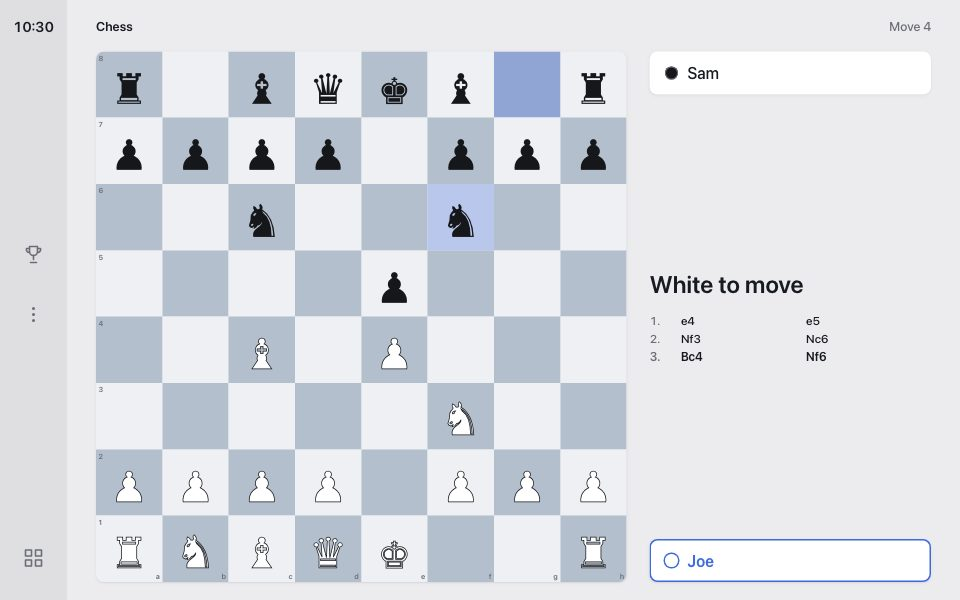
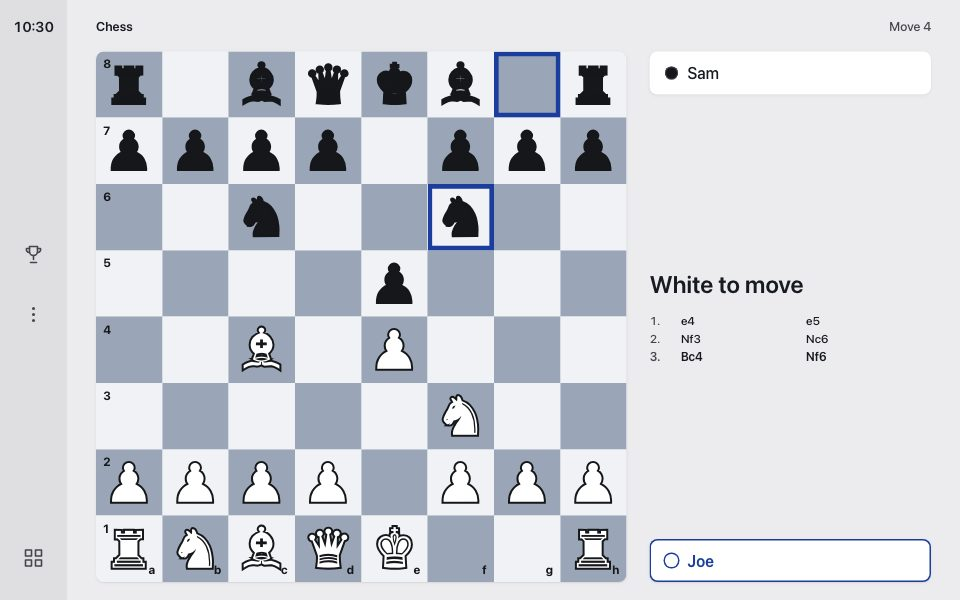
feat: AAA contrast in every game, a chess board readable from the back seat, and a flat angular Cyber theme
Every text color now meets WCAG AAA (7:1) on its surface in Classic light, Classic dark, and Cyber,
checked by an axe test over every gallery example. Chess pieces fill their squares with a contrasting
edge, coordinates are larger and bolder, and the last move is a ring. Cyber drops the steel
gradients, light bar, and glow for flat chamfered panels. Screenshots and the chess GIF are
re-recorded, and a 28th example keeps the gallery even.

Changed region(s): [[0.0938, 0.06, 0.6562, 0.99], [0.6875, 0.93, 0.9688, 0.99], [0.9375, 0.03, 0.9688, 0.06]]

diff --git a/board.css b/board.css
@@ -5,10 +5,14 @@
 	--dock: #dfdfe2;
 	--shadow: 0 1px 2px #0000000f, 0 2px 8px #0000000a;
 	--text: #171a20;
-	--muted: #6b6e75;
-	--accent: #3e6ae1;
-	--correct: #1fa463;
-	--danger: #e5484d;
+	--muted: #44464b;
+	--accent: #1a3d9e;
+	--correct: #0a5530;
+	--danger: #8f1a1d;
+	/* Text on accent, correct, and danger fills. Every text color meets WCAG AAA (7:1) on its surface. */
+	--on-accent: #fff;
+	--on-correct: #fff;
+	--on-danger: #fff;
 	--radius: 16px;
 	--chamfer: 0px;
 	--mono: ui-monospace, "SF Mono", Menlo, monospace;
@@ -22,8 +26,13 @@
 		--dock: #18181a;
 		--shadow: none;
 		--text: #f2f2f3;
-		--muted: #8d9097;
-		--accent: #5b84f0;
+		--muted: #a8abb0;
+		--accent: #8ca9f5;
+		--correct: #5bbd8d;
+		--danger: #ef9194;
+		--on-accent: #0d0d0e;
+		--on-correct: #0d0d0e;
+		--on-danger: #0d0d0e;
 	}
 }
 
@@ -122,7 +131,7 @@ html, body {
 	transition: background 0.2s, color 0.2s, transform 0.1s;
 }
 .dock-item:hover { color: var(--text); }
-.dock-item.is-active { background: var(--accent); color: #fff; }
+.dock-item.is-active { background: var(--accent); color: var(--on-accent); }
 
 /* ⋮ menu (popover) */
 .dock-more .icon path { fill: currentColor; stroke: none; }
@@ -217,12 +226,13 @@ a.card { transition: transform 0.1s; }
 	padding: 3vh 2vw;
 	font-size: clamp(1.4rem, 4vh, 3rem);
 	text-align: start;
-	transition: opacity 0.3s, background 0.3s;
+	transition: color 0.3s, background 0.3s;
 }
 .choice .muted { min-width: 1.2em; font-size: 0.75em; font-weight: 600; }
-.choice.is-correct { background: var(--correct); color: #fff; }
-.choice.is-correct .muted { color: inherit; opacity: 0.8; }
-.choice.is-dim { opacity: 0.5; }
+.choice.is-correct { background: var(--correct); color: var(--on-correct); }
+.choice.is-correct .muted { color: inherit; }
+/* Wrong answers recede by color, not opacity, so they stay readable. */
+.choice.is-dim { color: var(--muted); box-shadow: none; background: transparent; outline: 1px solid color-mix(in srgb, var(--muted) 40%, transparent); outline-offset: -1px; }
 .clue .choice { justify-content: center; }
 
 .verdict {
@@ -334,7 +344,7 @@ a.card { transition: transform 0.1s; }
 	font-variant-numeric: tabular-nums;
 }
 .grid-cell.is-used { background: transparent; box-shadow: inset 0 0 0 2px var(--card); }
-.grid-cell.is-current { background: var(--accent); color: #fff; }
+.grid-cell.is-current { background: var(--accent); color: var(--on-accent); }
 
 /* Effects */
 @property --left {
@@ -383,50 +393,44 @@ a.card { transition: transform 0.1s; }
 @keyframes fall { to { transform: translate3d(var(--drift), 112vh, 0) rotate(var(--spin)); } }
 
 /*
- * Cyber theme: brushed stainless, sharp facets, a white light bar, red for alerts.
+ * Cyber theme: the angular in-car software look. Near-black flat panels, chamfered corners,
+ * hairline edges, wide uppercase labels in a technical face, white as the accent.
  * theme=cyber or the ⋮ menu.
  */
 :root[data-theme="cyber"] {
 	--bg: #0a0b0c;
-	--card: #1c1e21;
-	--dock: #111214;
+	--card: #17181b;
+	--dock: #0f1012;
+	--edge: #ffffff24;
 	--shadow: none;
 	--text: #eef0f2;
-	--muted: #8b9098;
+	--muted: #a5a8af;
 	--accent: #f2f4f6;
 	--correct: #4ade80;
-	--danger: #ff453a;
+	--danger: #ff847d;
+	--on-accent: #0a0b0c;
+	--on-correct: #04140a;
+	--on-danger: #0a0b0c;
 	--radius: 0px;
 	--chamfer: 14px;
-	--steel: linear-gradient(160deg, #34383d 0%, #1e2124 38%, #26292d 62%, #181a1d 100%);
 	color-scheme: dark;
 }
 
 [data-theme="cyber"] body { background: var(--bg); }
 
-/* The light bar: one thin white line across the top. */
-[data-theme="cyber"] .board::before {
-	content: "";
-	position: absolute;
-	top: 0;
-	inset-inline: 6%;
-	height: 2px;
-	background: #fff;
-	box-shadow: 0 0 14px #ffffffb0, 0 0 40px #ffffff40;
-	pointer-events: none;
-}
-
+/* Chamfered panels: flat fills, a shade lighter than the background, so the cut corners read clearly. */
 [data-theme="cyber"] .card,
 [data-theme="cyber"] .chip,
 [data-theme="cyber"] .dock-item {
 	border-radius: 0;
 	clip-path: polygon(var(--chamfer) 0, 100% 0, 100% calc(100% - var(--chamfer)), calc(100% - var(--chamfer)) 100%, 0 100%, 0 var(--chamfer));
 }
-[data-theme="cyber"] .card { background: var(--steel); box-shadow: inset 0 1px 0 #ffffff1f, inset 0 0 0 1px #ffffff10; }
-[data-theme="cyber"] .chip { --chamfer: 8px; background: var(--steel); }
+[data-theme="cyber"] .card,
+[data-theme="cyber"] .chip { background: var(--card); box-shadow: none; }
+[data-theme="cyber"] .chip { --chamfer: 8px; }
 [data-theme="cyber"] .dock-item { --chamfer: 10px; }
-[data-theme="cyber"] #dock { border-inline-end: 1px solid #ffffff12; }
-[data-theme="cyber"] .dock-menu { clip-path: none; border: 1px solid #ffffff1f; }
+[data-theme="cyber"] #dock { border-inline-end: 1px solid var(--edge); }
+[data-theme="cyber"] .dock-menu { clip-path: none; border: 1px solid var(--edge); }
 
 [data-theme="cyber"] .bar,
 [data-theme="cyber"] .grid-cat,
@@ -443,12 +447,21 @@ a.card { transition: transform 0.1s; }
 [data-theme="cyber"] .chip,
 [data-theme="cyber"] .fx-timer { font-family: var(--mono); }
 
+/* States repeat their fill here, since the panel background above is more specific. */
 [data-theme="cyber"] .dock-item.is-active,
-[data-theme="cyber"] .grid-cell.is-current { background: var(--accent); color: #0a0b0c; }
-[data-theme="cyber"] .choice.is-correct { background: var(--correct); color: #04140a; }
-[data-theme="cyber"] .grid-cell.is-used { background: transparent; box-shadow: inset 0 0 0 1px #ffffff14; }
-[data-theme="cyber"] .score-row.is-leader { box-shadow: inset 0 0 0 2px var(--accent); }
-[data-theme="cyber"] .verdict { text-shadow: 0 0 18px #ffffff55; }
+[data-theme="cyber"] .grid-cell.is-current { background: var(--accent); }
+[data-theme="cyber"] .choice.is-correct { background: var(--correct); }
+[data-theme="cyber"] .choice.is-dim { background: var(--card); outline: 0; }
+[data-theme="cyber"] .grid-cell.is-used { background: var(--dock); }
+/* Highlights: an accent edge drawn as a background layer, so it follows the chamfer. */
+[data-theme="cyber"] .score-row.is-leader,
+[data-theme="cyber"] .chip.is-up,
+[data-theme="cyber"] .chess-player.is-turn,
+[data-theme="cyber"] .adv-character.is-up {
+	background: linear-gradient(var(--card), var(--card)) padding-box, var(--accent) border-box;
+	border: 2px solid transparent;
+	box-shadow: none;
+}
 [data-theme="cyber"] .fx-timer { background: radial-gradient(closest-side, var(--bg) 84%, transparent 85%), conic-gradient(var(--accent) var(--left), #2a2d31 0); }
 
 /* Confirmation dialog */
@@ -477,7 +490,7 @@ a.card { transition: transform 0.1s; }
 	font-weight: 600;
 	cursor: pointer;
 }
-.button.is-danger { background: var(--danger); color: #fff; }
+.button.is-danger { background: var(--danger); color: var(--on-danger); }
 [data-theme="cyber"] .confirm,
 [data-theme="cyber"] .button {
 	border-radius: 0;
@@ -488,7 +501,7 @@ a.card { transition: transform 0.1s; }
 /* Final-screen credit: small and quiet */
 .credit {
 	align-self: center;
-	color: color-mix(in srgb, var(--muted) 75%, var(--text));
+	color: var(--muted);
 	font-size: clamp(0.75rem, 1.6vh, 1rem);
 }
 .credit:hover { color: var(--text); }

diff --git a/plugins/voiceboard-chess/chess.css b/plugins/voiceboard-chess/chess.css
@@ -1,7 +1,14 @@
 /* Chess board. Orientation never mirrors in right-to-left languages. */
+/* Built to read from the back seat: pieces fill their squares, black pieces get a light edge on dark
+   boards, and coordinates keep AAA contrast on both square colors. */
 .chess-board {
-	--sq-light: #eef0f3;
-	--sq-dark: #b4bfcd;
+	--sq-light: #f0f2f5;
+	--sq-dark: #9aa6b7;
+	--coord: #15171a;
+	--w-fill: #fff;
+	--w-edge: #15171a;
+	--b-fill: #15171a;
+	--b-edge: #15171a;
 	direction: ltr;
 	display: grid;
 	grid-template-columns: repeat(8, 1fr);
@@ -16,33 +23,40 @@
 	box-shadow: var(--shadow);
 }
 @media (prefers-color-scheme: dark) {
-	:root:not([data-theme="cyber"]) .chess-board { --sq-light: #4a4e57; --sq-dark: #2d3036; }
+	:root:not([data-theme="cyber"]) .chess-board { --sq-light: #4a4e57; --sq-dark: #25272c; --coord: #f2f2f3; --w-edge: #0d0d0e; --b-fill: #0d0d0e; --b-edge: #e6e8eb; }
 }
-[data-theme="cyber"] .chess-board { --sq-light: #3a3e44; --sq-dark: #1b1d20; box-shadow: inset 0 0 0 1px #ffffff14; border-radius: 0; }
+[data-theme="cyber"] .chess-board { --sq-light: #44474d; --sq-dark: #1a1b1e; --coord: #eef0f2; --w-fill: #f2f4f6; --w-edge: #0a0b0c; --b-fill: #0a0b0c; --b-edge: #e6e8eb; box-shadow: 0 0 0 1px var(--edge); border-radius: 0; }
 
-.sq { position: relative; display: grid; place-items: center; }
+.sq { position: relative; display: grid; place-items: center; container-type: size; }
 .sq.light { background: var(--sq-light); }
 .sq.dark { background: var(--sq-dark); }
-.sq.last::after { content: ""; position: absolute; inset: 0; background: color-mix(in srgb, var(--accent) 30%, transparent); }
+/* Last move: a thick ring rather than a tint, so the coordinates keep their contrast. */
+.sq.last::after { content: ""; position: absolute; inset: 0; box-shadow: inset 0 0 0 7cqmin var(--accent); }
 .sq.check { background: radial-gradient(circle, var(--danger) 0 45%, transparent 75%), var(--sq-dark); }
 
-.piece { position: relative; z-index: 1; font-size: min(9vh, 5.4vw); line-height: 1; }
-.piece.w { color: #fff; -webkit-text-stroke: 1.5px #1a1c20; }
-.piece.b { color: #15171a; }
-[data-theme="cyber"] .piece.w { color: #f2f4f6; -webkit-text-stroke: 0; text-shadow: 0 0 10px #ffffff66; }
-[data-theme="cyber"] .piece.b { color: #0a0b0c; -webkit-text-stroke: 1px #8b9098; }
+/* The stroke is painted under the fill, so a thick edge never eats into the piece. */
+.piece {
+	position: relative;
+	z-index: 1;
+	font-family: "DejaVu Sans", "Noto Sans Symbols 2", "Segoe UI Symbol", "Apple Symbols", sans-serif;
+	font-size: 80cqmin;
+	line-height: 1;
+	paint-order: stroke fill;
+	-webkit-text-stroke: 6cqmin var(--edge-color);
+}
+.piece.w { color: var(--w-fill); --edge-color: var(--w-edge); }
+.piece.b { color: var(--b-fill); --edge-color: var(--b-edge); -webkit-text-stroke-width: 4cqmin; }
 
-.coord { position: absolute; z-index: 1; font-size: clamp(0.6rem, 1.4vh, 0.9rem); font-weight: 600; color: var(--muted); }
-.coord.rank { top: 0.3em; left: 0.35em; }
-.coord.file { bottom: 0.2em; right: 0.35em; }
+.coord { position: absolute; z-index: 1; font-size: max(0.85rem, 18cqmin); font-weight: 700; line-height: 1; color: var(--coord); }
+.coord.rank { top: 10cqmin; left: 11cqmin; }
+.coord.file { bottom: 9cqmin; right: 11cqmin; }
 
 .chess-status { margin: 0; font-size: clamp(1.4rem, 4.2vh, 3rem); font-weight: 600; }
 .chess-change { margin: 0; color: var(--accent); font-size: clamp(1rem, 2.6vh, 1.6rem); font-weight: 600; }
 .chess-captured { margin-inline-start: auto; font-size: 0.8em; letter-spacing: -0.1em; }
-.chess-captured.w { color: #fff; -webkit-text-stroke: 1px #1a1c20; }
-.chess-captured.b { color: #15171a; }
-[data-theme="cyber"] .chess-captured.w { color: #f2f4f6; -webkit-text-stroke: 0; }
-[data-theme="cyber"] .chess-captured.b { color: #0a0b0c; -webkit-text-stroke: 1px #8b9098; }
+.chess-captured { font-family: "DejaVu Sans", "Noto Sans Symbols 2", "Segoe UI Symbol", "Apple Symbols", sans-serif; paint-order: stroke fill; }
+.chess-captured.w { color: #fff; -webkit-text-stroke: 2px #15171a; }
+.chess-captured.b { color: #15171a; -webkit-text-stroke: 2px #e6e8eb; }
 .chess-illegal { margin: 0; color: var(--danger); font-size: clamp(1rem, 2.6vh, 1.6rem); font-weight: 600; }
 .chess-moves { margin: 0; padding: 0; list-style: none; display: grid; gap: 0.6vh; font-size: clamp(1rem, 2.4vh, 1.5rem); font-variant-numeric: tabular-nums; }
 .chess-moves li { display: grid; grid-template-columns: 2.6em 1fr 1fr; }
@@ -73,5 +87,4 @@
 	.chess-moves li:nth-last-child(n+4) { display: none; }
 	.chess-side { justify-content: flex-start; }
 	.chess-center { flex: none; }
-	.piece { font-size: min(8.5vw, 5.5vh); }
 }

diff --git a/plugins/voiceboard-sessions/journey.css b/plugins/voiceboard-sessions/journey.css
@@ -1,6 +1,6 @@
 /* Recap page: a phone-first reading layout. */
-:root { color-scheme: light dark; --text: #171a20; --muted: #5c5e62; --bg: #fff; --card: #f4f4f4; --accent: #3e6ae1; }
-@media (prefers-color-scheme: dark) { :root { --text: #f2f2f3; --muted: #a2a6ad; --bg: #0d0d0e; --card: #1f2023; --accent: #5b84f0; } }
+:root { color-scheme: light dark; --text: #171a20; --muted: #44464b; --bg: #fff; --card: #f4f4f4; --accent: #1a3d9e; --on-accent: #fff; --danger: #8f1a1d; }
+@media (prefers-color-scheme: dark) { :root { --text: #f2f2f3; --muted: #a8abb0; --bg: #0d0d0e; --card: #1f2023; --accent: #8ca9f5; --on-accent: #0d0d0e; --danger: #ef9194; } }
 * { box-sizing: border-box; }
 body { margin: 0; background: var(--bg); color: var(--text); font: 400 1.0625rem/1.6 system-ui, -apple-system, "Segoe UI", Roboto, sans-serif; -webkit-font-smoothing: antialiased; }
 main { max-width: 38rem; margin: 0 auto; padding: 2.5rem 1.25rem 3rem; }
@@ -18,9 +18,9 @@ h2 { margin: 2.5rem 0 0.75rem; font-size: 1.25rem; }
 .email label { display: block; margin-bottom: 0.35rem; font-weight: 600; }
 .row { display: flex; gap: 0.5rem; }
 input[type=email] { flex: 1; min-width: 0; padding: 0.7rem 0.9rem; border: 1px solid color-mix(in srgb, var(--muted) 45%, transparent); border-radius: 10px; background: var(--bg); color: var(--text); font: inherit; }
-button { padding: 0.7rem 1.3rem; border: 0; border-radius: 10px; background: var(--accent); color: #fff; font: inherit; font-weight: 600; cursor: pointer; }
+button { padding: 0.7rem 1.3rem; border: 0; border-radius: 10px; background: var(--accent); color: var(--on-accent); font: inherit; font-weight: 600; cursor: pointer; }
 .status { padding: 0.6rem 0.9rem; border-radius: 10px; background: var(--card); }
-.status.error { color: #e5484d; }
+.status.error { color: var(--danger); }
 .trap { position: absolute; left: -9999px; }
 .fine { color: var(--muted); font-size: 0.85rem; }
 a { color: var(--accent); }

diff --git a/tests/a11y.spec.js b/tests/a11y.spec.js
@@ -1,4 +1,5 @@
 import AxeBuilder from '@axe-core/playwright';
+import { readFileSync } from 'node:fs';
 import { test, expect } from './fixtures.js';
 
 const SCREENS = {
@@ -18,5 +19,28 @@ test.describe('accessibility (axe)', () => {
 				expect(violations.map((v) => `${v.id}: ${v.nodes.length}`)).toEqual([]);
 			});
 		}
+	}
+});
+
+// Text contrast meets WCAG AAA (7:1, or 4.5:1 for large text) on every example screen, in every look,
+// so the board stays readable from the back seat and in sunlight.
+const examples = JSON.parse(readFileSync(new URL('../docs/examples.json', import.meta.url), 'utf8'));
+const LOOKS = [['classic', 'light'], ['classic', 'dark'], ['cyber', 'dark']];
+
+test.describe('contrast (AAA)', () => {
+	for (const [theme, colorScheme] of LOOKS) {
+		test(`every example in ${theme} ${colorScheme}`, async ({ open, page }) => {
+			test.setTimeout(120_000);
+			await page.emulateMedia({ colorScheme });
+			const failures = [];
+			for (const example of examples) {
+				const query = example.query.replace(/^\?/, '').replace(/&?theme=\w+/, '');
+				await open(`${query}${query ? '&' : ''}theme=${theme}`);
+				await page.waitForTimeout(250);
+				const { violations } = await new AxeBuilder({ page }).include('body').withRules(['color-contrast', 'color-contrast-enhanced']).analyze();
+				for (const v of violations) for (const node of v.nodes) failures.push(`${example.title}: ${node.target.join(' ')} — ${node.any[0]?.message ?? v.id}`);
+			}
+			expect(failures).toEqual([]);
+		});
 	}
 });

diff --git a/docs/gallery.md b/docs/gallery.md
@@ -17,6 +17,6 @@ Every example screen. Each picture links to the live board; opening one updates 
 <tr><td width="50%" valign="top"><a href="https://voiceboardgames.com/board/?g=trivia&st=next&up=Trinity&t=Hackers&n=6&of=12&p=Neo:500,Trinity:400,Morpheus:300,Tank:200,Dozer:100,Switch:0&theme=cyber"><img src="screenshots/21-six-players-cyber-theme.jpg" alt="Six players, Cyber theme"></a><br><a href="https://voiceboardgames.com/board/?g=trivia&st=next&up=Trinity&t=Hackers&n=6&of=12&p=Neo:500,Trinity:400,Morpheus:300,Tank:200,Dozer:100,Switch:0&theme=cyber">Six players, Cyber theme</a></td><td width="50%" valign="top"><a href="https://voiceboardgames.com/board/?g=trivia&st=end&lang=he&t=טריוויה&p=נועה:500,יונתן:300,מאיה:400&fx=confetti"><img src="screenshots/22-final-scores-in-hebrew.jpg" alt="Final scores in Hebrew"></a><br><a href="https://voiceboardgames.com/board/?g=trivia&st=end&lang=he&t=טריוויה&p=נועה:500,יונתן:300,מאיה:400&fx=confetti">Final scores in Hebrew</a></td></tr>
 <tr><td width="50%" valign="top"><a href="https://voiceboardgames.com/board/?g=jeopardy&st=final&lang=fr&t=Finale&q=Ce+monument+parisien+mesure+330+m%C3%A8tres&a=Qu%27est-ce+que+la+tour+Eiffel+%3F&r=Camille&w=Camille:800,Louis:400&p=Camille:2400,Louis:1600"><img src="screenshots/23-final-round-in-french.jpg" alt="Final round in French"></a><br><a href="https://voiceboardgames.com/board/?g=jeopardy&st=final&lang=fr&t=Finale&q=Ce+monument+parisien+mesure+330+m%C3%A8tres&a=Qu%27est-ce+que+la+tour+Eiffel+%3F&r=Camille&w=Camille:800,Louis:400&p=Camille:2400,Louis:1600">Final round in French</a></td><td width="50%" valign="top"><a href="https://voiceboardgames.com/board/?g=trivia&st=reveal&lang=de&t=Geschichte&q=Wer+erfand+den+Buchdruck+mit+beweglichen+Lettern%3F&a=Johannes+Gutenberg&r=Lena&p=Lena:300,Max:200"><img src="screenshots/24-open-ended-answer-in-german.jpg" alt="Open-ended answer in German"></a><br><a href="https://voiceboardgames.com/board/?g=trivia&st=reveal&lang=de&t=Geschichte&q=Wer+erfand+den+Buchdruck+mit+beweglichen+Lettern%3F&a=Johannes+Gutenberg&r=Lena&p=Lena:300,Max:200">Open-ended answer in German</a></td></tr>
 <tr><td width="50%" valign="top"><a href="https://voiceboardgames.com/board/?g=adventure&code=readme&ch=Joe:fighter:12/12,Sam:rogue:6/10,Ava:wizard:8/8&inv=Joe:sword|torch;Sam:lockpicks|rope;Ava:spellbook&loc=The+Old+Mill&see=a+locked+chest|cobwebs|a+sleeping+goblin&ex=door|ladder+up"><img src="screenshots/25-adventure-scene-with-the-party.jpg" alt="Adventure scene with the party"></a><br><a href="https://voiceboardgames.com/board/?g=adventure&code=readme&ch=Joe:fighter:12/12,Sam:rogue:6/10,Ava:wizard:8/8&inv=Joe:sword|torch;Sam:lockpicks|rope;Ava:spellbook&loc=The+Old+Mill&see=a+locked+chest|cobwebs|a+sleeping+goblin&ex=door|ladder+up">Adventure scene with the party</a></td><td width="50%" valign="top"><a href="https://voiceboardgames.com/board/?g=adventure&code=readme&ch=Joe:fighter:12/12,Sam:rogue:6/10,Ava:wizard:8/8&inv=Joe:sword|torch;Sam:lockpicks|rope;Ava:spellbook&loc=The+Old+Mill&roll=d20%2B3&for=Sam&vs=12&rn=1"><img src="screenshots/26-sam-rolls-to-pick-the-lock.jpg" alt="Sam rolls to pick the lock"></a><br><a href="https://voiceboardgames.com/board/?g=adventure&code=readme&ch=Joe:fighter:12/12,Sam:rogue:6/10,Ava:wizard:8/8&inv=Joe:sword|torch;Sam:lockpicks|rope;Ava:spellbook&loc=The+Old+Mill&roll=d20%2B3&for=Sam&vs=12&rn=1">Sam rolls to pick the lock</a></td></tr>
-<tr><td width="50%" valign="top"><a href="https://voiceboardgames.com/board/?g=hall"><img src="screenshots/27-hall-of-fame.jpg" alt="Hall of Fame"></a><br><a href="https://voiceboardgames.com/board/?g=hall">Hall of Fame</a></td><td></td></tr>
+<tr><td width="50%" valign="top"><a href="https://voiceboardgames.com/board/?g=hall"><img src="screenshots/27-hall-of-fame.jpg" alt="Hall of Fame"></a><br><a href="https://voiceboardgames.com/board/?g=hall">Hall of Fame</a></td><td width="50%" valign="top"><a href="https://voiceboardgames.com/board/?g=chess&p=Joe:0,Sam:0&mv=e4+e5+Nf3+Nc6+Bc4+Bc5+c3+Nf6+d4"><img src="screenshots/28-chess-in-dark-mode.jpg" alt="Chess in dark mode"></a><br><a href="https://voiceboardgames.com/board/?g=chess&p=Joe:0,Sam:0&mv=e4+e5+Nf3+Nc6+Bc4+Bc5+c3+Nf6+d4">Chess in dark mode</a></td></tr>
 </table>
 <!-- examples:end -->
